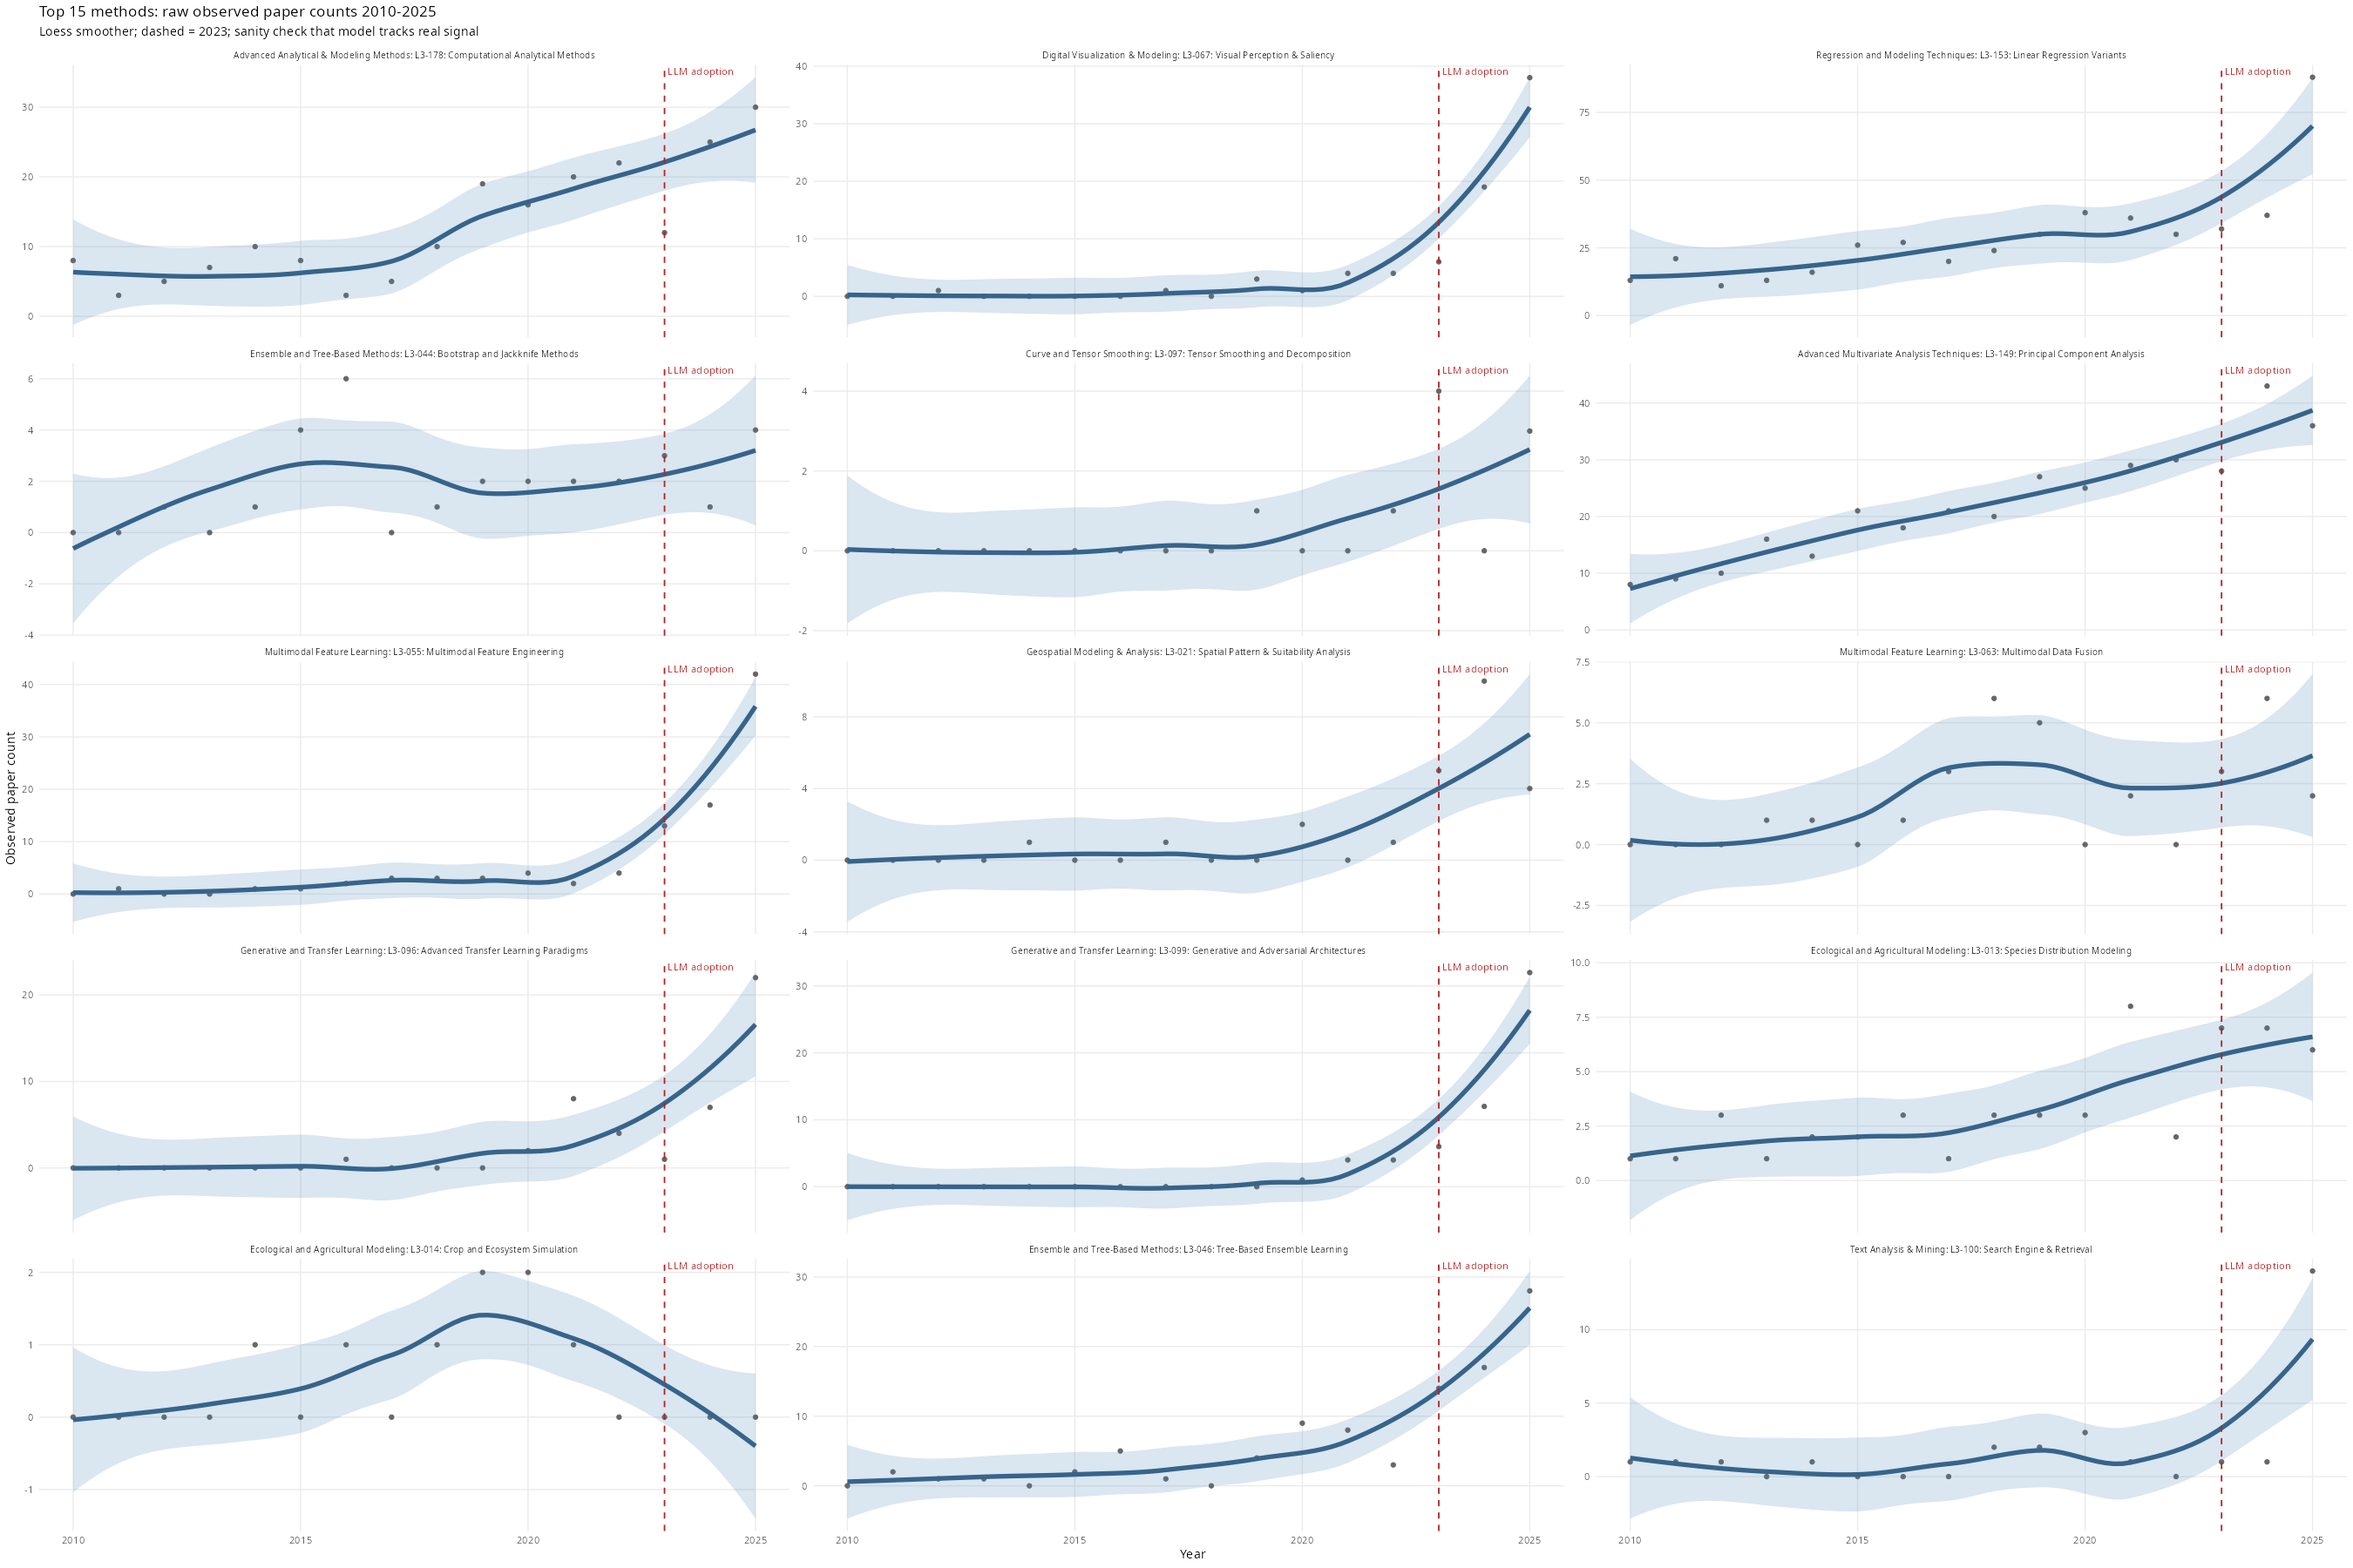
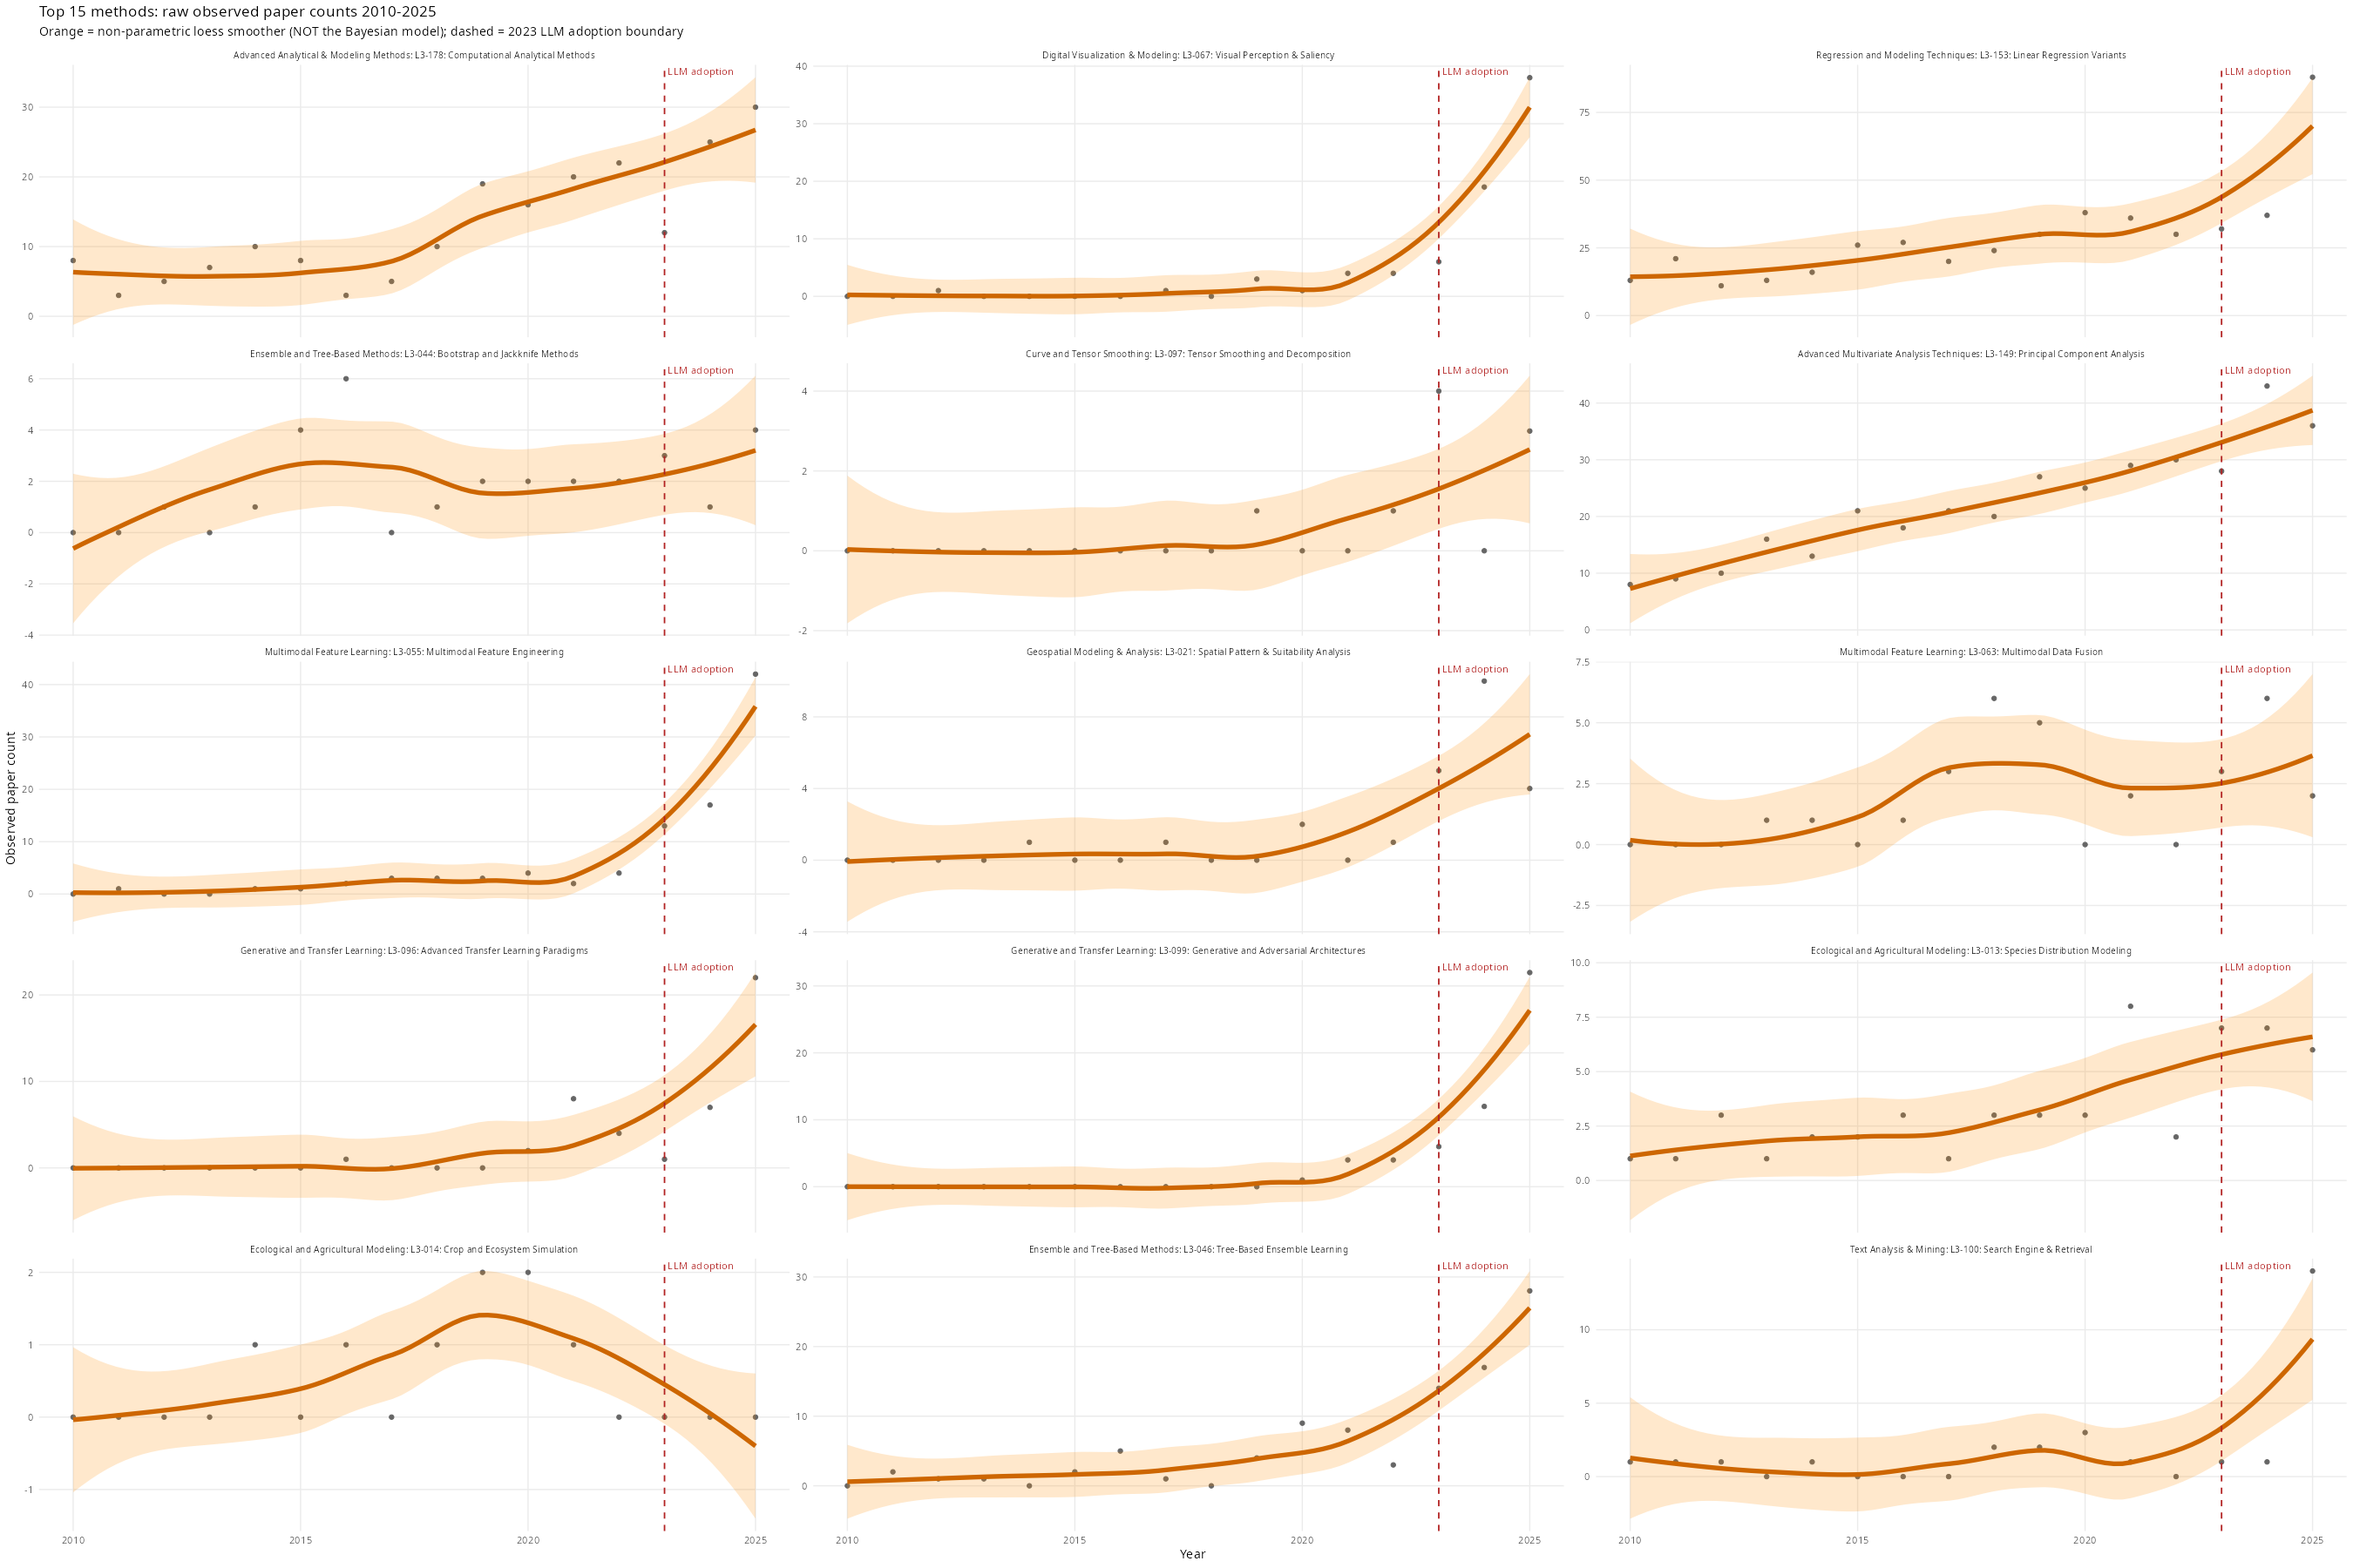
auto: L3 model results update

diff --git a/docs/l3_results.md b/docs/l3_results.md
@@ -81,4 +81,4 @@ Posterior densities of sigma_beta (baseline trend scale, blue) and sigma_gamma (
 Posterior mean and 90% CI for gamma_method for each L3 technique whose CI excludes zero. Red = gaining share post-2023, blue = losing share.
 
 ![Raw counts](../data/output/l3/plot_raw_counts.png)
-Observed paper counts for the same top 15 methods. Loess smoother overlaid as a sanity check that the model is tracking real signal.
+Raw observed paper counts for the same top 15 methods. The orange curve is a non-parametric loess smoother fitted directly to the observed counts — it is not derived from the Bayesian model. Its purpose is a sanity check: do the methods the model flags as having large post-2023 shifts show visually plausible trends in the raw data?
